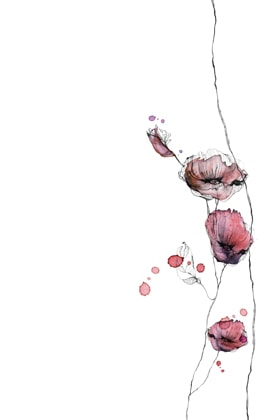
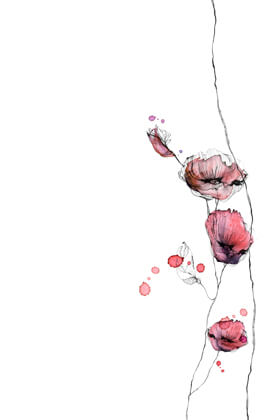
优化压缩图片

diff --git a/index.html b/index.html
@@ -116,7 +116,7 @@
     </div>
 </div>
 
-<img class="tree" src="./img/tree.min.jpeg" alt="">
+<img class="tree" src="./img/tree-min.jpeg" alt="">
 
 <script>
 (function(i,s,o,g,r,a,m){i['GoogleAnalyticsObject']=r;i[r]=i[r]||function(){
